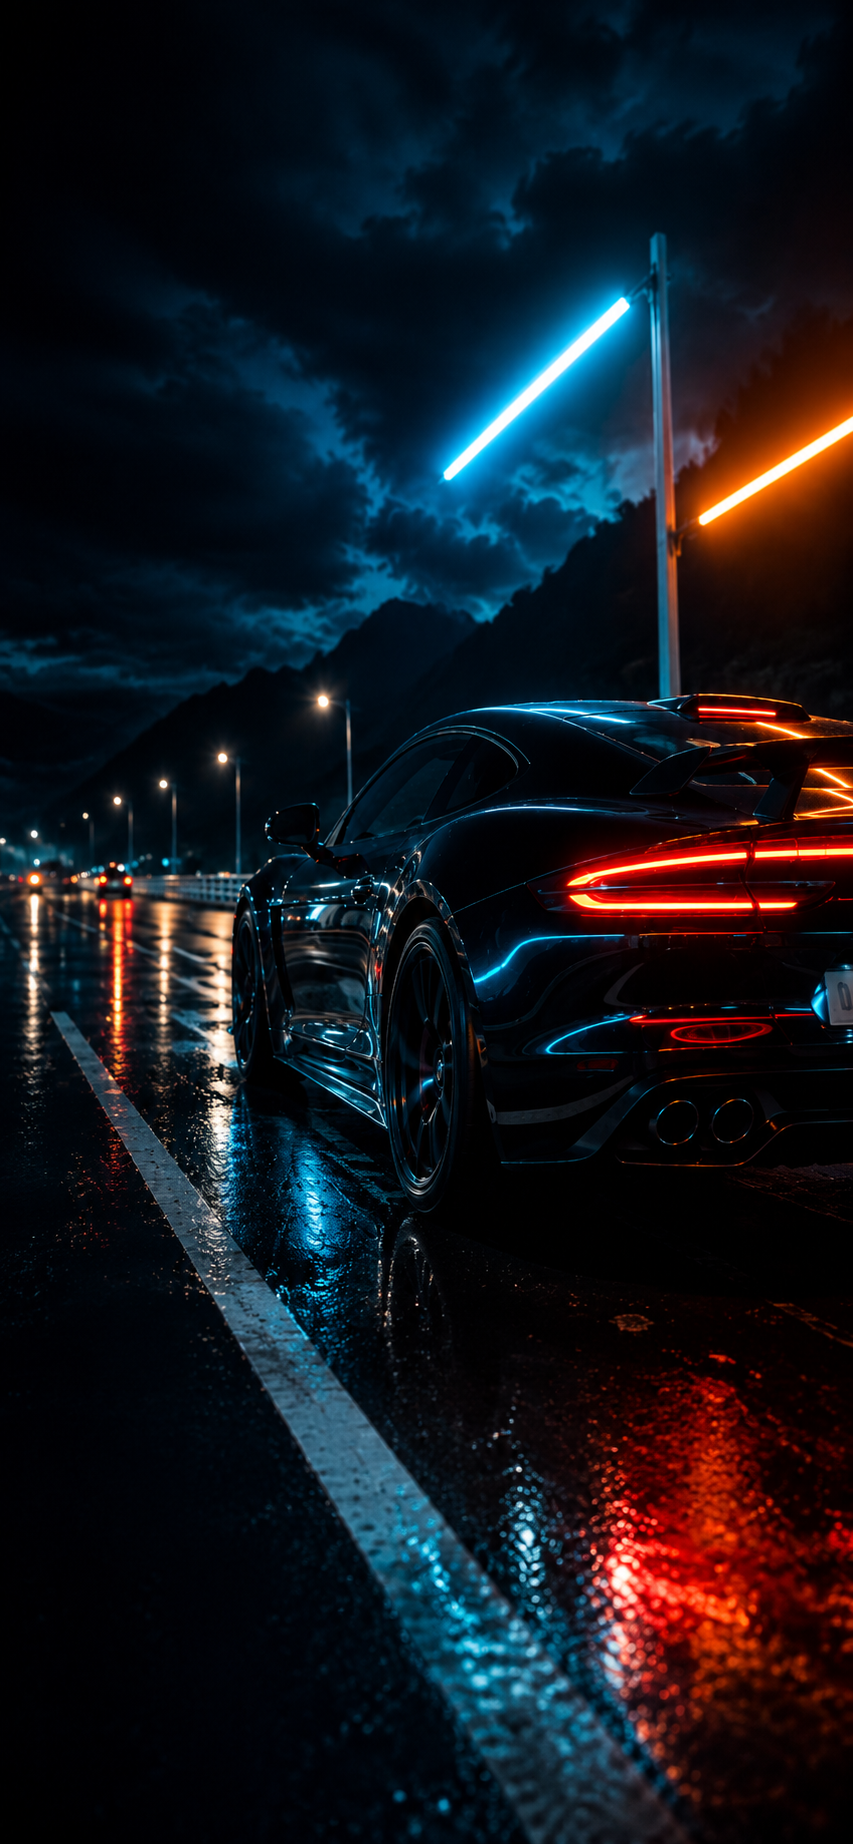
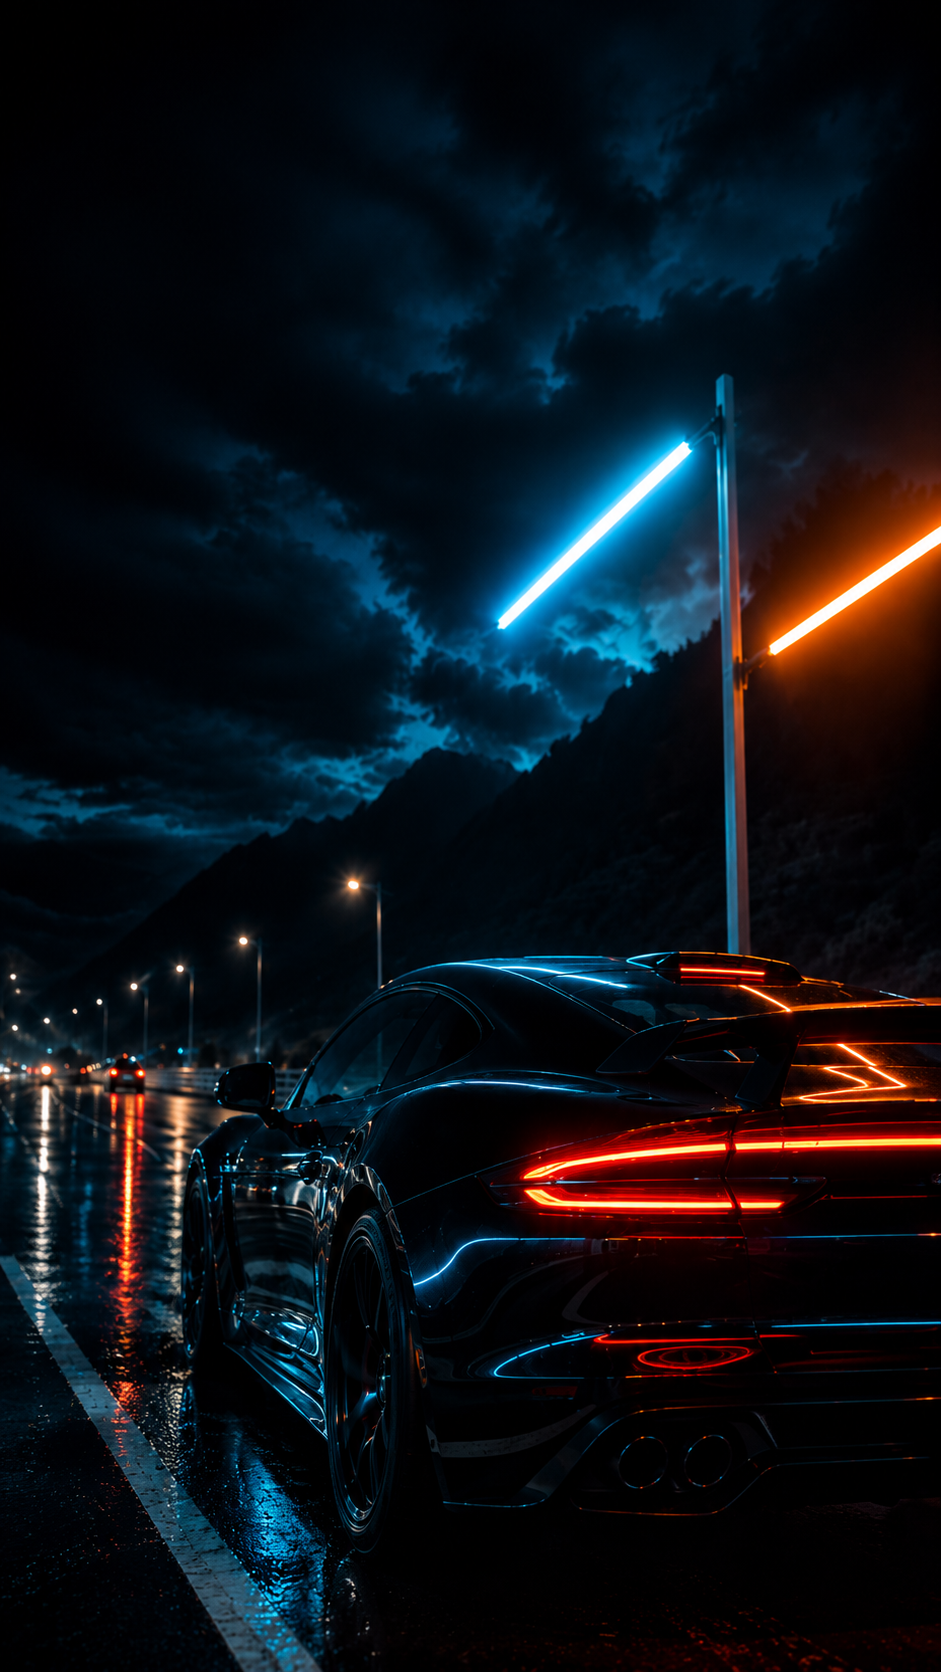
change:hero

diff --git a/app/globals.css b/app/globals.css
@@ -35,7 +35,7 @@
   ========================================================= */
 
   /* ONLY HEADINGS */
-  --font-display: "Cormorant Garamond", serif;
+  --font-display: "Cormorant Garamond", Georgia, serif;
 
   /* ALL NORMAL WEBSITE TEXT */
   --font-body: "Mulish", Arial, sans-serif;
